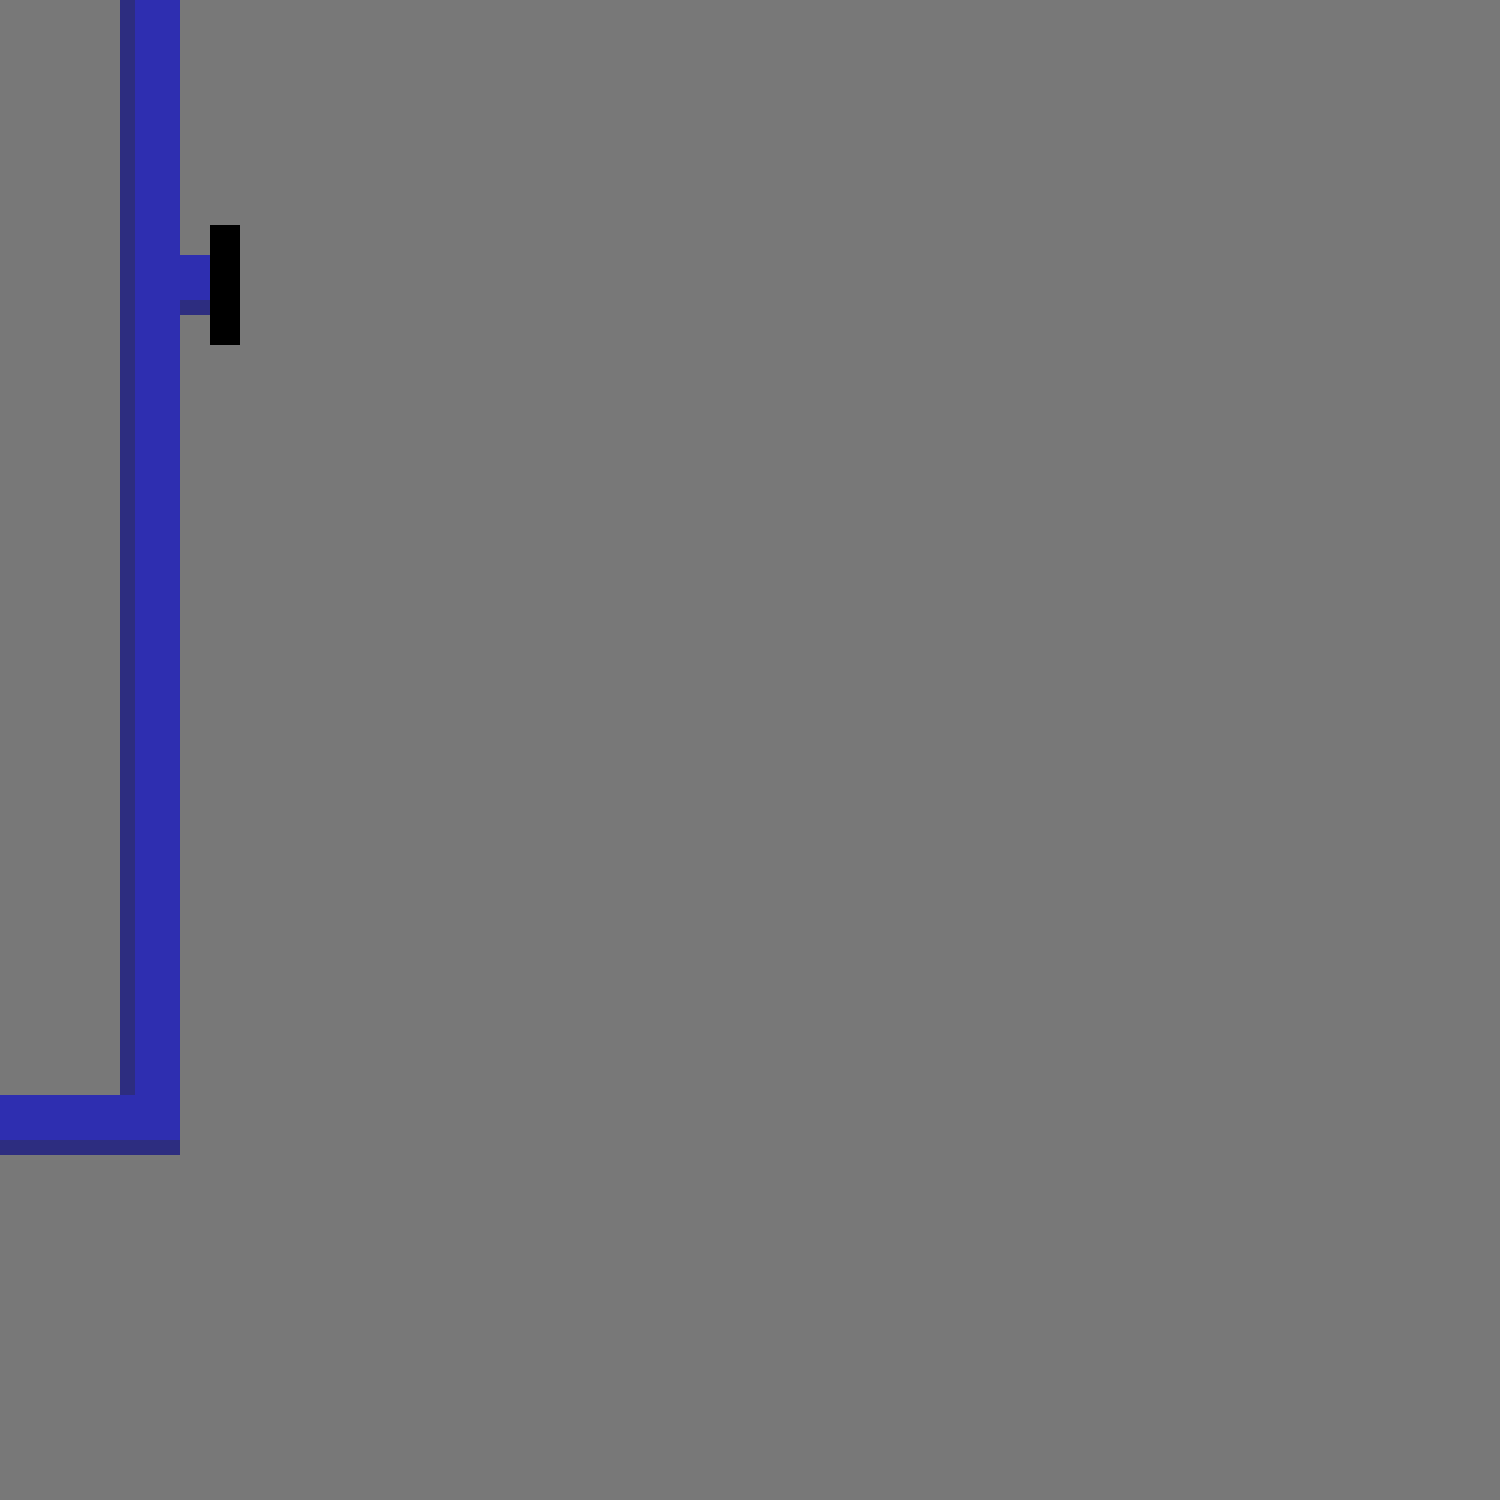
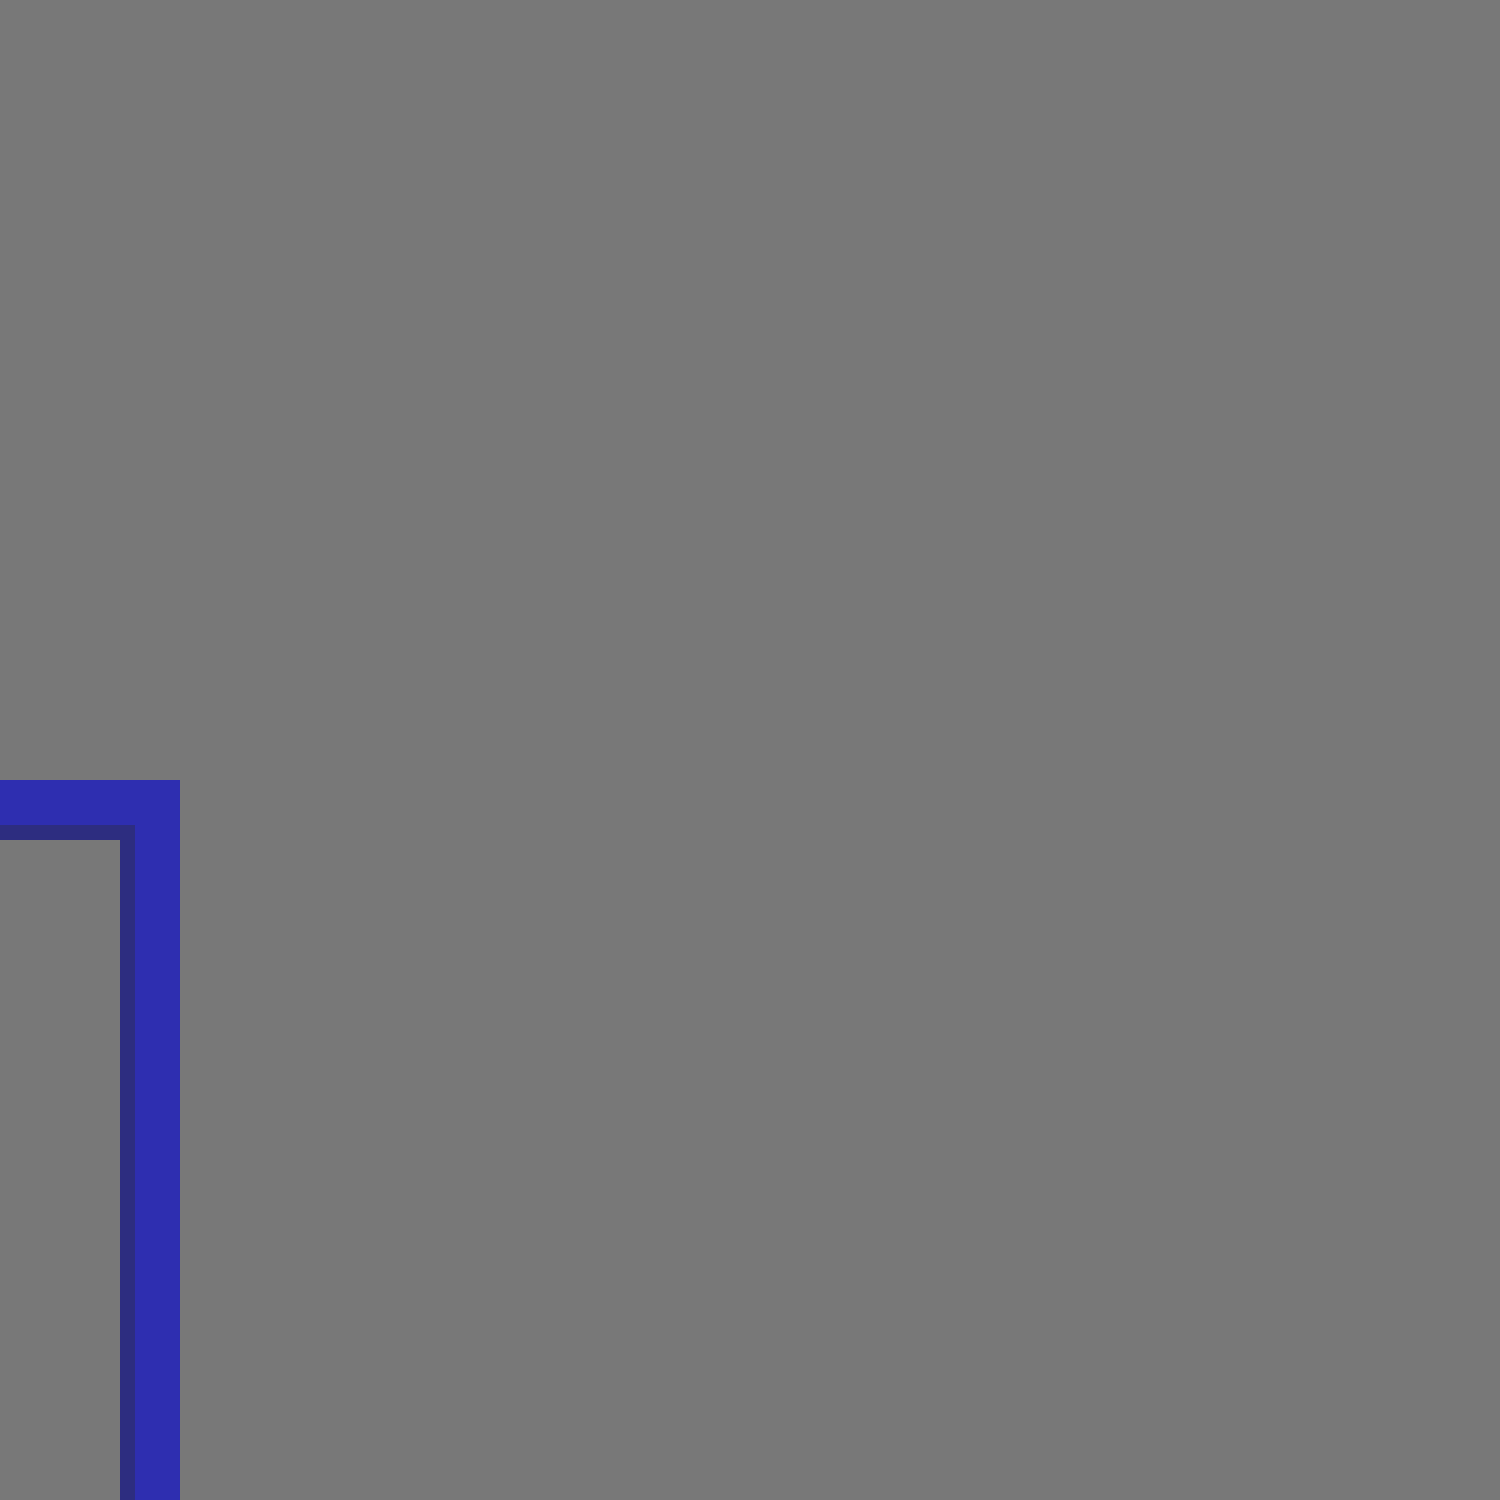
Adding new tiles to the map

Changed region(s): [[0.0, 0.0, 0.184, 0.5827], [0.0, 0.7053, 0.1227, 1.0]]

diff --git a/src/Tiles/levels.js b/src/Tiles/levels.js
@@ -4,35 +4,35 @@ const levels = [{
             rotation: 180
         },
         map: [
-            [0, 0, 0, 0, 0, 0, 0, 0, 0, 0,0, 0, 0, 0, 0, 0, 0, 1, 0, 0],
-            [1, 1, 1, 1, 1, 1, 1, 1, 0, 0,0, 0, 0, 0, 1, 0, 0, 1, 0, 0],
-            [0, 0, 0, 0, 1, 0, 0, 1, 0, 0,0, 0, 0, 0, 1, 0, 0, 1, 1, 0],
-            [0, 0, 0, 1, 1, 0, 0, 1, 0, 0,0, 0, 0, 0, 1, 0, 0, 0, 1, 0],
-            [0, 0, 0, 1, 0, 0, 0, 1, 1, 1,1, 1, 1, 1, 1, 0, 0, 0, 1, 1],
-            [0, 0, 0, 1, 0, 0, 0, 0, 0, 0,1, 0, 0, 0, 0, 0, 0, 0, 0, 0],
-            [0, 0, 0, 0, 0, 0, 0, 0, 0, 0,1, 1, 1, 0, 0, 0, 0, 0, 0, 0],
-            [0, 0, 0, 0, 1, 1, 1, 1, 0, 0,0, 0, 1, 0, 0, 0, 0, 0, 0, 0],
-            [0, 0, 0, 0, 1, 0, 0, 1, 0, 0,0, 0, 1, 1, 1, 1, 0, 0, 0, 0],
-            [1, 1, 0, 1, 1, 0, 0, 1, 0, 0,0, 0, 0, 0, 0, 1, 0, 0, 0, 0],
-            [0, 1, 0, 1, 0, 0, 0, 1, 1, 1,0, 0, 0, 0, 0, 1, 1, 1, 1, 1],
-            [0, 1, 0, 1, 0, 0, 0, 0, 0, 0 ,0, 0, 0, 0, 0, 0, 0, 0, 0, 0],
+            [0, 0, 0, 0, 0, 0, 0, 0, 0, 0, 0, 0, 0, 0, 0, 0, 0, 6, 0, 0],
+            [2, 1, 1, 1, 1, 4, 5, 1, 0, 0, 0, 0, 0, 0, 6, 0, 0, 7, 0, 0],
+            [0, 0, 0, 0, 1, 0, 0, 6, 0, 0, 0, 0, 0, 0, 7, 0, 0, 1, 1, 0],
+            [0, 0, 0, 1, 1, 0, 0, 7, 0, 0, 0, 0, 0, 0, 1, 0, 0, 0, 1, 0],
+            [0, 0, 0, 6, 0, 0, 0, 1, 4, 5, 1, 1, 4, 5, 1, 0, 0, 0, 1, 1],
+            [0, 0, 0, 7, 0, 0, 0, 0, 0, 0, 1, 0, 0, 0, 0, 0, 0, 0, 0, 0],
+            [0, 0, 0, 0, 0, 0, 0, 0, 0, 0, 1, 1, 1, 0, 0, 0, 0, 0, 0, 0],
+            [0, 0, 0, 0, 1, 1, 1, 1, 0, 0, 0, 0, 6, 0, 0, 0, 0, 0, 0, 0],
+            [0, 0, 0, 0, 1, 0, 0, 6, 0, 0, 0, 0, 7, 1, 1, 1, 0, 0, 0, 0],
+            [1, 1, 0, 1, 1, 0, 0, 7, 0, 0, 0, 0, 0, 0, 0, 1, 0, 0, 0, 0],
+            [0, 1, 0, 6, 0, 0, 0, 1, 4, 5, 0, 0, 0, 0, 0, 1, 4, 5, 1, 3],
+            [0, 1, 0, 7, 0, 0, 0, 0, 0, 0 ,0, 0, 0, 0, 0, 0, 0, 0, 0, 0],
         ],
         startPos: [1, 0],
         endPos: [10, 19]
     },
     {
         map: [
-            [0, 0, 1, 0, 0, 0, 0, 0, 0, 0,0, 0, 1, 0, 0, 0, 0, 0, 0, 0],
-            [0, 0, 0, 1, 1, 1, 1, 1, 0, 0,0, 0, 0, 0, 0, 0, 0, 1, 1, 1],
-            [0, 0, 0, 0, 1, 0, 0, 1, 0, 0,0, 0, 0, 0, 0, 0, 0, 0, 0, 0],
-            [0, 0, 0, 1, 1, 0, 0, 1, 0, 0,0, 0, 0, 1, 1, 1, 1, 1, 0, 0],
-            [0, 0, 0, 1, 0, 0, 0, 0, 1, 1,1, 1, 1, 1, 0, 0, 0, 1, 1, 1],
-            [0, 0, 0, 1, 0, 0, 0, 0, 1, 0,0, 0, 0, 0, 0, 0, 0, 0, 0, 0],
-            [0, 0, 0, 0, 0, 0, 0, 0, 1, 0,0, 0, 0, 0, 0, 0, 0, 0, 0, 0],
-            [0, 0, 0, 0, 1, 1, 1, 1, 1, 0,0, 0, 0, 0, 1, 1, 1, 1, 1, 1],
-            [1, 1, 1, 1, 1, 0, 0, 1, 0, 0,0, 0, 0, 0, 1, 0, 0, 0, 0, 0],
-            [0, 0, 0, 1, 1, 0, 0, 1, 1, 0,0, 0, 0, 0, 1, 0, 0, 0, 0, 0],
-            [0, 0, 0, 1, 0, 0, 0, 0, 1, 1,0, 0, 0, 0, 1, 0, 0, 0, 0, 0],
+            [0, 0, 1, 0, 0, 0, 0, 0, 0, 0, 0, 0, 1, 0, 0, 0, 0, 0, 0, 0],
+            [0, 0, 0, 1, 1, 4, 5, 1, 0, 0, 0, 0, 0, 0, 0, 0, 0, 4, 5, 1],
+            [0, 0, 0, 0, 6, 0, 0, 6, 0, 0, 0, 0, 0, 0, 0, 0, 0, 0, 0, 0],
+            [0, 0, 0, 1, 7, 0, 0, 7, 0, 0, 0, 0, 0, 1, 1, 4, 5, 1, 0, 0],
+            [0, 0, 0, 1, 0, 0, 0, 0, 1, 1, 4, 5, 1, 1, 0, 0, 0, 1, 1, 3],
+            [0, 0, 0, 1, 0, 0, 0, 0, 6, 0, 0, 0, 0, 0, 0, 0, 0, 0, 0, 0],
+            [0, 0, 0, 0, 0, 0, 0, 0, 7, 0, 0, 0, 0, 0, 0, 0, 0, 0, 0, 0],
+            [0, 0, 0, 0, 1, 4, 5, 1, 1, 0, 0, 0, 0, 0, 1, 1, 4, 5, 1, 1],
+            [2, 4, 5, 1, 1, 0, 0, 1, 0, 0, 0, 0, 0, 0, 6, 0, 0, 0, 0, 0],
+            [0, 0, 0, 1, 1, 0, 0, 1, 1, 0, 0, 0, 0, 0, 7, 0, 0, 0, 0, 0],
+            [0, 0, 0, 1, 0, 0, 0, 0, 1, 1, 0, 0, 0, 0, 1, 0, 0, 0, 0, 0],
             [0, 0, 0, 0, 0, 0, 0, 0, 0, 0 ,0, 0, 0, 0, 1, 0, 0, 0, 0, 0],
           ],
         physicist: {
@@ -48,17 +48,17 @@ const levels = [{
             rotation: 180
         },
         map: [
-            [0, 0, 0, 0, 0, 0, 0, 0, 0, 0,0, 0, 0, 1, 0, 1, 0, 0, 1, 0],
-            [0, 0, 0, 0, 1, 1, 1, 1, 0, 0,0, 0, 0, 1, 0, 1, 0, 0, 1, 0],
-            [0, 0, 0, 0, 1, 0, 0, 1, 0, 0,0, 0, 0, 1, 1, 1, 0, 0, 1, 1],
-            [0, 0, 0, 1, 1, 0, 0, 1, 0, 0,0, 0, 0, 0, 0, 0, 0, 0, 0, 0],
-            [1, 1, 1, 1, 0, 0, 0, 1, 1, 1,0, 0, 0, 0, 0, 0, 0, 0, 0, 0],
-            [0, 0, 0, 1, 1, 1, 1, 0, 0, 0,0, 0, 0, 0, 0, 0, 0, 0, 0, 0],
-            [0, 0, 0, 0, 0, 0, 1, 0, 0, 0,0, 1, 1, 1, 1, 1, 1, 0, 0, 0],
-            [0, 0, 0, 0, 1, 0, 1, 1, 0, 0,0, 1, 0, 0, 0, 0, 1,1, 1, 1],
-            [0, 0, 0, 0, 1, 0, 0, 1, 0, 1,1, 1, 0, 0, 0, 1, 0, 0, 0, 0],
-            [0, 0, 0, 1, 1, 0, 0, 1, 0, 1,0, 0, 0, 0, 0, 1, 0, 0, 0, 0],
-            [0, 0, 0, 1, 0, 0, 0, 1, 1, 1,0, 0, 0, 0, 0, 1, 0, 0, 1, 1],
+            [0, 0, 0, 0, 0, 0, 0, 0, 0, 0, 0, 0, 0, 1, 0, 1, 0, 0, 1, 0],
+            [0, 0, 0, 0, 1, 4, 5, 1, 0, 0, 0, 0, 0, 1, 0, 6, 0, 0, 1, 0],
+            [0, 0, 0, 0, 1, 0, 0, 1, 0, 0, 0, 0, 0, 1, 1, 7, 0, 0, 1, 1],
+            [0, 0, 0, 1, 1, 0, 0, 1, 0, 0, 0, 0, 0, 0, 0, 0, 0, 0, 0, 0],
+            [2, 4, 5, 1, 0, 0, 0, 1, 4, 5, 0, 0, 0, 0, 0, 0, 0, 0, 0, 0],
+            [0, 0, 0, 1, 1, 1, 1, 0, 0, 0, 0, 0, 0, 0, 0, 0, 0, 0, 0, 0],
+            [0, 0, 0, 0, 0, 0, 1, 0, 0, 0, 0, 1, 4, 5, 1, 1, 1, 0, 0, 0],
+            [0, 0, 0, 0, 1, 0, 1, 1, 0, 0, 0, 1, 0, 0, 0, 0, 1, 1, 4, 5],
+            [0, 0, 0, 0, 6, 0, 0, 1, 0, 1, 1, 1, 0, 0, 0, 1, 0, 0, 0, 0],
+            [0, 0, 0, 1, 7, 0, 0, 1, 0, 4, 0, 0, 0, 0, 0, 6, 0, 0, 0, 0],
+            [0, 0, 0, 1, 0, 0, 0, 1, 1, 5, 0, 0, 0, 0, 0, 7, 0, 0, 1, 3],
             [0, 0, 0, 1, 0, 0, 0, 0, 0, 0 ,0, 0, 0, 0, 0, 1, 0, 0, 1, 0],
           ],
         startPos: [4, 0],
@@ -66,21 +66,21 @@ const levels = [{
     },
     {
         physicist: {
-            startPos: [4,10 ],
+            startPos: [4, 10],
             rotation: 180
         },
         map: [
-            [0, 0, 0, 0, 0, 0, 0, 0, 0, 0,0, 0, 0, 0, 0, 0, 0, 0, 0, 0],
-            [0, 0, 0, 0, 0, 0, 0, 1, 1, 1,1, 1, 1, 1, 1, 1, 1, 1, 1, 1],
-            [0, 0, 0, 0, 0, 0, 0, 1, 0, 0,0, 0, 0, 0, 0, 0, 0, 0, 0, 0],
-            [0, 0, 0, 1, 1, 0, 0, 1, 0, 0,0, 0, 0, 0, 0, 0, 0, 0, 0, 0],
-            [0, 0, 0, 1, 0, 0, 0, 1, 1, 1,1, 0, 0, 0, 0, 0, 0, 0, 0, 0],
-            [0, 0, 0, 1, 0, 0, 0, 0, 0, 0,1, 0, 0, 0, 0, 0, 0, 0, 0, 0],
-            [0, 0, 0, 0, 0, 0, 0, 0, 0, 0,1, 0, 0, 0, 0, 0, 0, 0, 0, 0],
-            [0, 0, 0, 0, 1, 1, 1, 1, 1, 1,1, 0, 0, 0, 0, 0, 0, 0, 0, 0],
-            [1, 1, 1, 1, 1, 0, 0, 0, 0, 0,0, 0, 0, 0, 0, 0, 0, 0, 0, 0],
-            [0, 0, 0, 0, 1, 0, 0, 1, 0, 0,0, 0, 0, 0, 0, 0, 0, 0, 0, 0],
-            [0, 0, 0, 1, 1, 0, 0, 1, 0, 1,0, 0, 0, 0, 0, 0, 0, 0, 0, 0],
+            [0, 0, 0, 0, 0, 0, 0, 0, 0, 0, 0, 0, 0, 0, 0, 0, 0, 0, 0, 0],
+            [0, 0, 0, 0, 0, 0, 0, 1, 4, 5, 1, 1, 4, 5, 1, 4, 5, 1, 1, 3],
+            [0, 0, 0, 0, 0, 0, 0, 1, 0, 0, 0, 0, 0, 0, 0, 0, 0, 0, 0, 0],
+            [0, 0, 0, 1, 1, 0, 0, 1, 0, 0, 0, 0, 0, 0, 0, 0, 0, 0, 0, 0],
+            [0, 0, 0, 1, 0, 0, 0, 1, 1, 1, 1, 0, 0, 0, 0, 0, 0, 0, 0, 0],
+            [0, 0, 0, 1, 0, 0, 0, 0, 0, 0, 6, 0, 0, 0, 0, 0, 0, 0, 0, 0],
+            [0, 0, 0, 0, 0, 0, 0, 0, 0, 0, 7, 0, 0, 0, 0, 0, 0, 0, 0, 0],
+            [0, 0, 0, 0, 1, 6, 7, 1, 6, 7, 1, 0, 0, 0, 0, 0, 0, 0, 0, 0],
+            [2, 1, 4, 5, 1, 0, 0, 0, 0, 0, 0, 0, 0, 0, 0, 0, 0, 0, 0, 0],
+            [0, 0, 0, 0, 4, 0, 0, 1, 0, 0, 0, 0, 0, 0, 0, 0, 0, 0, 0, 0],
+            [0, 0, 0, 1, 5, 0, 0, 1, 0, 1, 0, 0, 0, 0, 0, 0, 0, 0, 0, 0],
             [0, 0, 0, 0, 0, 0, 0, 0, 0, 0 ,0, 0, 0, 0, 0, 0, 0, 0, 0, 0],
           ],
         startPos: [8, 0],
@@ -91,18 +91,18 @@ const levels = [{
             rotation: 180
         },
         map: [
-            [1, 1, 1, 1, 1, 1, 0, 0, 0, 0,0, 0, 0, 0, 0, 0, 0, 0, 0, 0],
-            [0, 0, 0, 0, 0, 1, 1, 1, 0, 0,0, 0, 0, 0, 0, 0, 0, 0, 0, 0],
-            [0, 0, 0, 0, 1, 0, 0, 1, 0, 0,0, 0, 0, 0, 0, 0, 0, 0, 0, 0],
-            [0, 0, 0, 1, 1, 0, 0, 1, 0, 0,0, 0, 0, 0, 0, 0, 0, 0, 0, 0],
-            [0, 0, 0, 1, 0, 0, 0, 1, 1, 1,1, 1, 1, 1, 1, 0, 0, 0, 0, 0],
-            [0, 0, 0, 1, 0, 0, 0, 0, 0, 0,0, 0, 0, 0, 1, 0, 0, 0, 0, 0],
-            [0, 0, 0, 0, 0, 0, 0, 0, 0, 0,0, 0, 0, 0, 1, 0, 0, 0, 0, 0],
-            [0, 0, 0, 0, 1, 1, 1, 0, 0, 0,0, 0, 0, 0, 1, 0, 0, 0, 0, 0],
-            [0, 0, 0, 0, 1, 0, 0, 1, 0, 0,0, 0, 0, 0, 1, 1, 1, 1, 1, 1],
-            [0, 0, 0, 1, 1, 0, 0, 1, 0, 0,0, 0, 0, 0, 0, 0, 0, 0, 0, 0],
-            [0, 0, 0, 1, 0, 0, 0, 1, 1, 1,0, 0, 0, 0, 0, 0, 0, 0, 0, 0],
-            [0, 0, 0, 1, 0, 0, 0, 0, 0, 0 ,0, 0, 0, 0, 0, 0, 0, 0, 0, 0],
+            [2, 1, 1, 4, 5, 1, 0, 0, 0, 0, 0, 0, 0, 0, 0, 0, 0, 0, 0, 0],
+            [0, 0, 0, 0, 0, 1, 4, 5, 0, 0, 0, 0, 0, 0, 0, 0, 0, 0, 0, 0],
+            [0, 0, 0, 0, 1, 0, 0, 6, 0, 0, 0, 0, 0, 0, 0, 0, 0, 0, 0, 0],
+            [0, 0, 0, 1, 1, 0, 0, 7, 0, 0, 0, 0, 0, 0, 0, 0, 0, 0, 0, 0],
+            [0, 0, 0, 1, 0, 0, 0, 1, 1, 4, 5, 1, 4, 5, 1, 0, 0, 0, 0, 0],
+            [0, 0, 0, 1, 0, 0, 0, 0, 0, 0, 0, 0, 0, 0, 6, 0, 0, 0, 0, 0],
+            [0, 0, 0, 0, 0, 0, 0, 0, 0, 0, 0, 0, 0, 0, 7, 0, 0, 0, 0, 0],
+            [0, 0, 0, 0, 1, 1, 1, 0, 0, 0, 0, 0, 0, 0, 1, 0, 0, 0, 0, 0],
+            [0, 0, 0, 0, 1, 0, 0, 6, 0, 0, 0, 0, 0, 0, 1, 1, 4, 5, 1, 3],
+            [0, 0, 0, 1, 1, 0, 0, 7, 0, 0, 0, 0, 0, 0, 0, 0, 0, 0, 0, 0],
+            [0, 0, 0, 6, 0, 0, 0, 1, 4, 5, 0, 0, 0, 0, 0, 0, 0, 0, 0, 0],
+            [0, 0, 0, 7, 0, 0, 0, 0, 0, 0 ,0, 0, 0, 0, 0, 0, 0, 0, 0, 0],
           ],
           startPos: [0, 0],
           endPos: [8, 19]

diff --git a/src/Tiles/TileTypes.js b/src/Tiles/TileTypes.js
@@ -1,4 +1,25 @@
 import Wall from "../images2/wall.png";
+import Floor from "../images/walk.png";
+import Start from "../images/start.png";
+import End from "../images/end.png";
+import HorizontalPipe1 from "../images/horizontalpipe1.png";
+import HorizontalPipe2 from "../images/horizontalpipe2.png";
+import BluePipe1Vertical from "../images/bluepipe1Vertical.png";
+import BluePipe2Vertical from "../images/bluepipe2Vertical.png";
+
+const TileTypes = [
+    {id: 1, type: "Floor", walkable: true, image: Floor},
+    {id: 2, type: "Floor Start", walkable: true, image: Start},
+    {id: 3, type: "Floor End", walkable: true, image: End},
+    {id: 4, type: "Horizontal Pipe 1", walkable: true, image: HorizontalPipe1},
+    {id: 5, type: "Horizontal Pipe 2", walkable: true, image: HorizontalPipe2},
+    {id: 6, type: "Blue Pipe 1 Vertical", walkable: true, image: BluePipe1Vertical},
+    {id: 7, type: "Blue Pipe 2 Vertical", walkable: true, image: BluePipe2Vertical},
+    {id: 0, type: "Wall", walkable: false,  image: Wall},
+]
+
+/*
+import Wall from "../images2/wall.png";
 import Floor from "../images2/floor.png";
 import FullRedPipe from "../images2/floor-left-full-red-pipe.png";
 import TopEndRedPipe from "../images2/floor-left-topend-red-pipe.png";
@@ -38,5 +59,6 @@ const TileTypes = [
     {id: 16, type: "Wall Top Left", walkable: false, image: WallTopLeft},
     {id: 17, type: "Wall Top", walkable: false, image: WallTop},
 ]
+*/
 
 export default TileTypes;

diff --git a/src/PopUpService/utils/informations.js b/src/PopUpService/utils/informations.js
@@ -1,7 +1,8 @@
 const dialogLevel0 = {
     "title" :  "Level 0 - Atoms",
     "informations" : [
-        "5th century BC : apparition of the idea that matter is composed of indivisible elements 1808 : John Dalton develops the theory that the particles in one object are all the same, but vary from one object to another",
+        "5th century BC : apparition of the idea that matter is composed of indivisible elements",
+        "1808 : John Dalton develops the theory that the particles in one object are all the same, but vary from one object to another",
         "John Dalton was an English physicist who made several significant discoveries and contributions to science during the late 18th and early 19th centuries.",
         "He is most famous for his development of the Atomic Theory, proposed in the early 1800s. This theory revolutionized the understanding of matter and its composition. Dalton said that all matter is made up of tiny, indivisible particles called atoms. He suggested that each element is characterized by unique atoms with specific properties, such as mass and chemical behavior. Furthermore, Dalton proposed that chemical reactions involve the rearrangement of atoms to form new compounds.",
     ]

diff --git a/src/pages/constants.js b/src/pages/constants.js
@@ -1,5 +1,5 @@
-import characterImage1 from "../images2/apple.png"
-import characterImage2 from "../images2/character1.png"
+import characterImage1 from "../images/apple.png"
+import characterImage2 from "../images/character-W-left.png"
 import characterImage3 from "../images/character-left.png"
 
 export const characterImages = [characterImage1,characterImage2,characterImage3];
